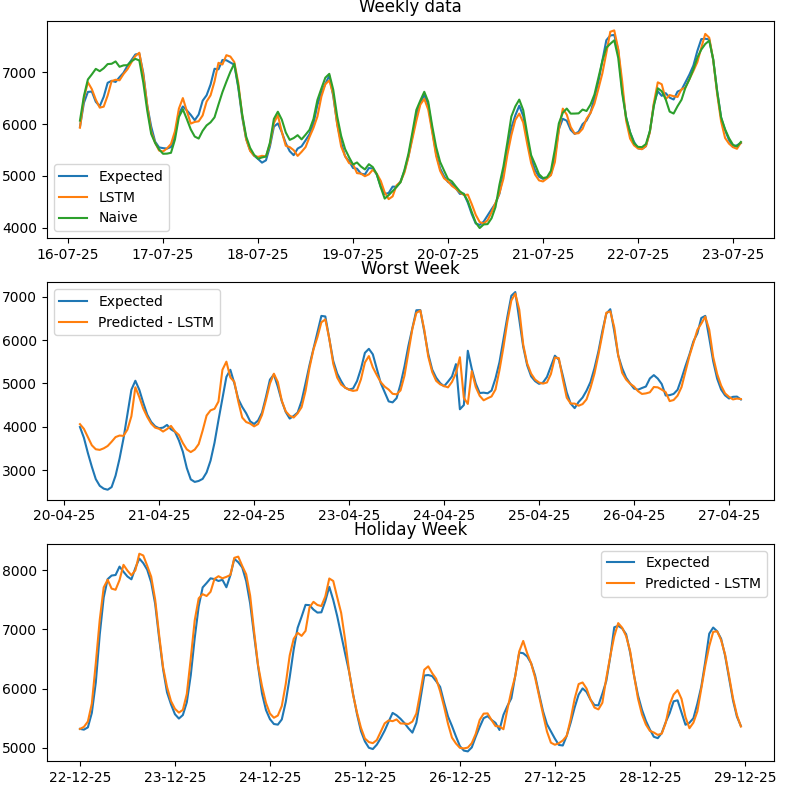
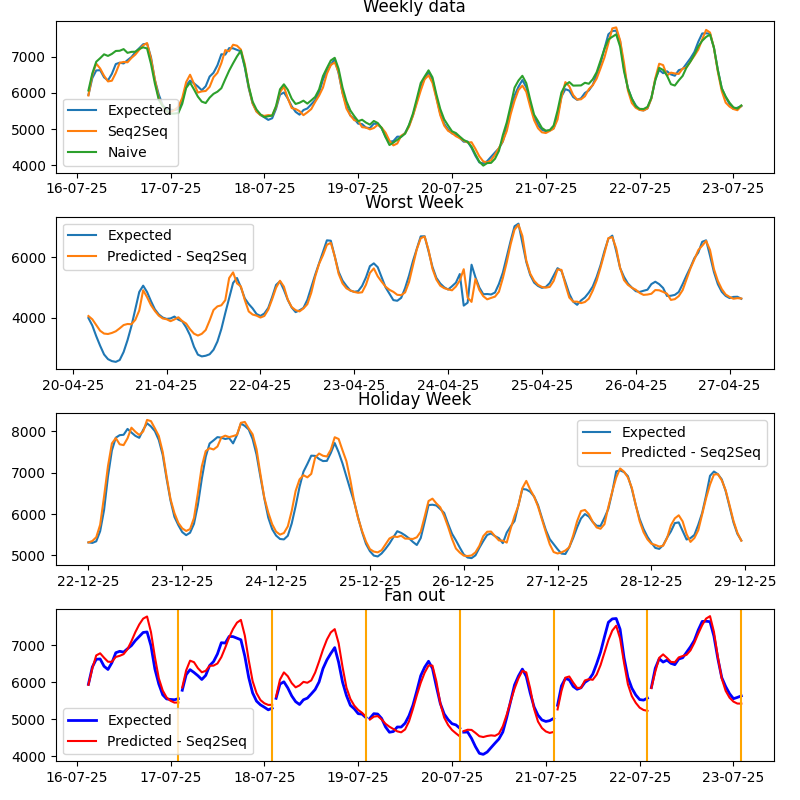
add fan out plot

diff --git a/src/evaluate.py b/src/evaluate.py
@@ -37,14 +37,20 @@ def get_skill_score(hours, y_test, valid_segments, model_loss):
     return 1 - model_loss / persistence_rmse
 
 
-def log_metrics(y_test, y_pred, test_segments, mwh_rmse_loss):
+def log_metrics(y_test, y_pred, test_segments):
     mae = np.mean(np.abs(y_test - y_pred))
     mape = np.mean(np.abs(y_test - y_pred) / np.abs(y_test)) * 100
     r2 = 1 - np.mean((y_test - y_pred) ** 2) / np.var(y_test)
-    lag1h = get_skill_score(1, y_test, test_segments, mwh_rmse_loss)
-    lag24h = get_skill_score(24, y_test, test_segments, mwh_rmse_loss)
+
+    hour_rmse_loss = np.sqrt(np.mean((y_pred[:, 0] - y_test[:, 0]) ** 2))
+    day_rmse_loss = np.sqrt(np.mean((y_pred[:, -1] - y_test[:, -1]) ** 2))
+
+    lag1h = get_skill_score(1, y_test, test_segments, hour_rmse_loss)
+    lag24h = get_skill_score(24, y_test, test_segments, day_rmse_loss)
+
+    rmse_loss = np.sqrt(np.mean((y_pred - y_test) ** 2))
     
-    logger.info(f'RMSE error={mwh_rmse_loss.item():.3f}MWh')
+    logger.info(f'RMSE error={rmse_loss.item():.3f}MWh')
     logger.info(f'MAE:{mae:.3f}MWh')
     logger.info(f'MAPE:{mape:.3f}%')
     logger.info(f'R2:{r2:.3f}')
@@ -55,25 +61,25 @@ def log_metrics(y_test, y_pred, test_segments, mwh_rmse_loss):
 def plot_overall_result(config, dates, y_test, y_pred, y_naive):
     fig, axs = plt.subplots(3, figsize=(8, 8))
 
-    lim = np.percentile(np.abs(y_test - y_pred), 99)
+    lim = np.percentile(np.abs(y_test[:, -1] - y_pred[:, -1]), 99)
     axs[0].xaxis.set_major_formatter(mdates.DateFormatter('%d-%m-%y'))
     axs[0].set_ylim(-lim, lim)
-    axs[0].plot(dates, y_test - y_pred)
+    axs[0].plot(dates, y_test[:, -1] - y_pred[:, -1])
     axs[0].set_title('Residual')
     
-    axs[1].scatter(y_test, y_pred, c='b', alpha=.1)
+    axs[1].scatter(y_test[:, -1], y_pred[:, -1], c='b', alpha=.1)
     axs[1].set_xlabel('y_test')
     axs[1].set_ylabel('y_pred')
     axs[1].axline((0, 0 ), slope=1)
     axs[1].set_title('Calibration')
 
-    errors = np.abs(y_test - y_pred).ravel()
+    errors = np.abs(y_test[:, 0] - y_pred[:, 0]).ravel()
     rolling_mae = pd.Series(errors).rolling(window=config['plot']['window']).mean()
     
-    naive_errors = np.abs(y_test - y_naive).ravel()
+    naive_errors = np.abs(y_test[:, 0] - y_naive[:, 0]).ravel()
     naive_rolling_mae = pd.Series(naive_errors).rolling(window=config['plot']['window']).mean()
     axs[2].xaxis.set_major_formatter(mdates.DateFormatter('%d-%m-%y'))
-    axs[2].plot(dates, rolling_mae, label='LSTM')
+    axs[2].plot(dates, rolling_mae, label='Seq2Seq')
     axs[2].plot(dates, naive_rolling_mae, label='Naive')
     axs[2].set_title('Rolling MAE')
     axs[2].legend()
@@ -127,10 +133,19 @@ def get_holiday_week_mask(dates):
     
 
 def plot_week_data(dates, y_test, y_pred, y_naive, valid_segments):
-    fig, axs = plt.subplots(3, figsize=(8, 8))
+    fig, axs = plt.subplots(4, figsize=(8, 8))
     fig.tight_layout()
-
     start, end = get_middle_segment_week(valid_segments)
+
+    fan_out_start = range(start, start + 7*24 , 24)
+    y_test_day = y_test[fan_out_start, :]
+    y_pred_day = y_pred[fan_out_start, :]
+    dates_day = dates[start:start+24*7]
+
+    y_test = y_test[:, 0]
+    y_pred = y_pred[:, 0]
+    y_naive = y_naive[:, 0]
+
     worst_start = get_worst_week_start(y_test, y_pred, valid_segments)
     holidays_mask = get_holiday_week_mask(dates)
 
@@ -141,7 +156,7 @@ def plot_week_data(dates, y_test, y_pred, y_naive, valid_segments):
 
     axs[0].xaxis.set_major_formatter(mdates.DateFormatter('%d-%m-%y'))
     axs[0].plot(dates_week, y_test_week, label='Expected')
-    axs[0].plot(dates_week, y_pred_week, label='LSTM')
+    axs[0].plot(dates_week, y_pred_week, label='Seq2Seq')
     axs[0].plot(dates_week, y_naive_week, label='Naive')
     axs[0].set_title('Weekly data')
     axs[0].legend()
@@ -152,7 +167,7 @@ def plot_week_data(dates, y_test, y_pred, y_naive, valid_segments):
 
     axs[1].xaxis.set_major_formatter(mdates.DateFormatter('%d-%m-%y'))
     axs[1].plot(dates_worst_week, y_test_worst_week, label='Expected')
-    axs[1].plot(dates_worst_week, y_pred_worst_week, label='Predicted - LSTM')
+    axs[1].plot(dates_worst_week, y_pred_worst_week, label='Predicted - Seq2Seq')
     axs[1].set_title('Worst Week')
     axs[1].legend()
 
@@ -162,9 +177,19 @@ def plot_week_data(dates, y_test, y_pred, y_naive, valid_segments):
 
     axs[2].xaxis.set_major_formatter(mdates.DateFormatter('%d-%m-%y'))
     axs[2].plot(dates_holiday, y_test_holiday, label='Expected')
-    axs[2].plot(dates_holiday, y_pred_holiday, label='Predicted - LSTM')
+    axs[2].plot(dates_holiday, y_pred_holiday, label='Predicted - Seq2Seq')
     axs[2].set_title('Holiday Week')
     axs[2].legend()
+
+    axs[3].xaxis.set_major_formatter(mdates.DateFormatter('%d-%m-%y'))
+
+    for i in range(len(y_test_day)):
+        axs[3].plot(dates_day[24*i:24*i+24], y_test_day[i, :], c='b', linewidth=2)
+        axs[3].plot(dates_day[24*i:24*i+24], y_pred_day[i, :], c='r')
+        axs[3].axvline(dates_day.iloc[24*i+23], c='orange')
+    
+    axs[3].legend(['Expected', 'Predicted - Seq2Seq'])
+    axs[3].set_title('Fan out')
 
     plt.savefig('outputs/evaluation_weekly.png')
     plt.close()
@@ -236,18 +261,16 @@ def evaluate(config):
     y_test = target_scaler.inverse_transform(y_test)
     y_pred = target_scaler.inverse_transform(y_pred)
 
-    mwh_rmse_loss = target_scaler.scale_ * scaled_rmse_loss
-    mwh_rmse_loss_naive = np.sqrt(np.mean((y_naive - y_test) ** 2))
 
-    log_metrics(y_test[:, 0], y_pred[:, 0], valid_counts, mwh_rmse_loss)
+    log_metrics(y_test, y_pred, valid_counts)
     logger.info('Naive model')
-    log_metrics(y_test[:, 0], y_naive[:, 0], valid_counts, mwh_rmse_loss_naive)
+    log_metrics(y_test, y_naive, valid_counts)
     
     dates = test_data[4]
     dates = dates[dates_valid_mask]
     
-    plot_overall_result(config, dates, y_test[:, 0], y_pred[:, 0], y_naive[:, 0])
-    plot_week_data(dates, y_test[:, 0], y_pred[:, 0], y_naive[:, 0], valid_counts)
+    plot_overall_result(config, dates, y_test, y_pred, y_naive)
+    plot_week_data(dates, y_test, y_pred, y_naive, valid_counts)
 
 
 if __name__ == '__main__':
